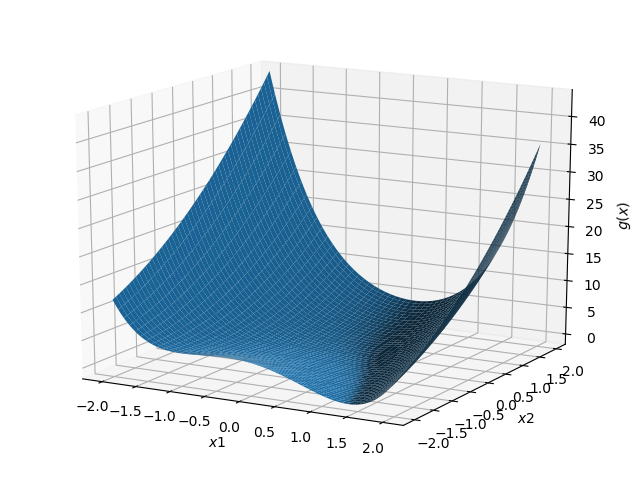
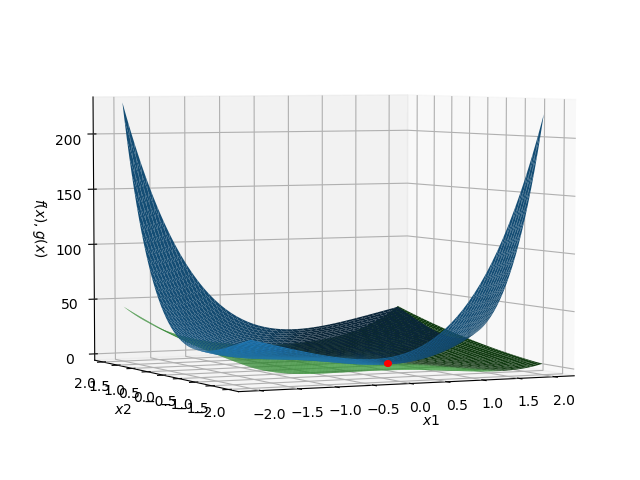
Update HW1.

Changed region(s): [[0.0312, 0.1562, 0.9375, 0.9375], [0.4688, 0.9062, 0.5938, 0.9375], [0.9688, 0.4062, 1.0, 0.4688]]

diff --git a/homework1.py b/homework1.py
@@ -1,6 +1,6 @@
 # -*- coding: utf-8 -*-
 
-from typing import Tuple, Callable
+from typing import Tuple, Callable, Sequence, Optional
 import pylab
 from numpy import arange, array, where
 from scipy.optimize import minimize
@@ -22,47 +22,68 @@ def g1(args: Tuple[float, float]) -> float:
 
 
 def plot3d(
-    func: Callable[[Tuple[float, float]], float],
+    funcs: Sequence[Callable[[Tuple[float, float]], float]],
     start: float,
     stop: float,
     label1: str = "x1",
     label2: str = "x2",
-    label3: str = "f(x)"
+    label3: str = "f(x)",
+    mark: Optional[Tuple[float, float]] = None
 ) -> None:
-    x = []
-    y = []
-    z = []
-    for x1 in arange(start, stop, 0.01):
-        row_x = []
-        row_y = []
-        row_z = []
-        for x2 in arange(start, stop, 0.01):
-            row_x.append(x1)
-            row_y.append(x2)
-            row_z.append(func((x1, x2)))
-        x.append(row_x)
-        y.append(row_y)
-        z.append(row_z)
-    x = array(x)
-    y = array(y)
-    z = array(z)
-    min_xy = where(z == z.min())
-    i = min_xy[0][0]
-    j = min_xy[1][0]
-    print(f"min={(x[i, j], y[i, j], z[i, j])}")
-
     fig = pylab.figure()
     ax = Axes3D(fig)
-    ax.set_xlabel(f"${label1}$")
-    ax.set_ylabel(f"${label2}$")
-    ax.set_zlabel(f"${label3}$")
-    ax.plot_surface(x, y, z)
+    for f, func in enumerate(funcs):
+        x = []
+        y = []
+        z = []
+        for x1 in arange(start, stop, 0.01):
+            row_x = []
+            row_y = []
+            row_z = []
+            for x2 in arange(start, stop, 0.01):
+                row_x.append(x1)
+                row_y.append(x2)
+                row_z.append(func((x1, x2)))
+            x.append(row_x)
+            y.append(row_y)
+            z.append(row_z)
+        x = array(x)
+        y = array(y)
+        z = array(z)
+        min_xy = where(z == z.min())
+        i = min_xy[0][0]
+        j = min_xy[1][0]
+        print(f"min={(x[i, j], y[i, j], z[i, j])}")
+        ax.set_xlabel(f"${label1}$")
+        ax.set_ylabel(f"${label2}$")
+        ax.set_zlabel(f"${label3}$")
+        ax.plot_surface(x, y, z)
+        if mark is not None:
+            ax.plot(
+                [mark[0]],
+                [mark[1]],
+                [func(mark)],
+                markerfacecolor='r',
+                markeredgecolor='r',
+                marker='o',
+                markersize=5
+            )
+        elif f == 0:
+            ax.plot(
+                [x[i, j]],
+                [y[i, j]],
+                [z[i, j]],
+                markerfacecolor='r',
+                markeredgecolor='r',
+                marker='o',
+                markersize=5
+            )
     pylab.show()
 
 
 def task1() -> None:
-    plot3d(f1, -2, 2)
-    plot3d(g1, -2, 2, label3="g(x)")
+    plot3d((f1,), -2, 2)
+    plot3d((f1, g1), -2, 2, label3="f(x), g(x)")
     # Optimization
     res = minimize(f1, array([0.28, -0.77]), method='SLSQP', constraints={'type': 'ineq', 'fun': g1})
     if res.success:
@@ -77,7 +98,7 @@ def f2(args: Tuple[float, float]) -> float:
 
 
 def task2() -> None:
-    plot3d(f2, -2, 2, 'd', 't')
+    plot3d((f2,), -2, 2, 'd', 't')
     # Optimization
     res = minimize(
         f2,
@@ -103,7 +124,7 @@ def f3(args: Tuple[float, float]) -> float:
 
 
 def task3() -> None:
-    plot3d(f3, -4, 6)
+    plot3d((f3,), -4, 6, mark=(1, 1))
     # Optimization
     res = minimize(f3, array([1., 1.]), method='SLSQP')
     if res.success:
